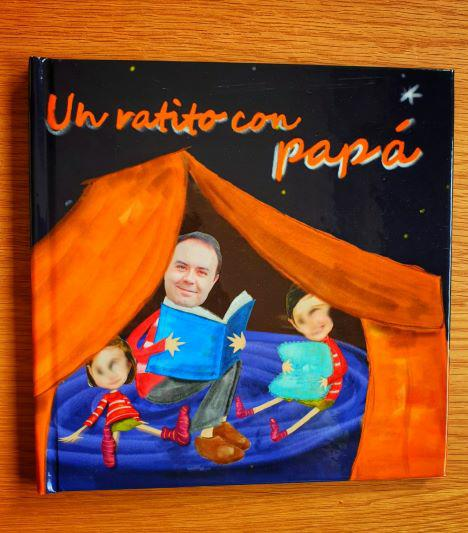
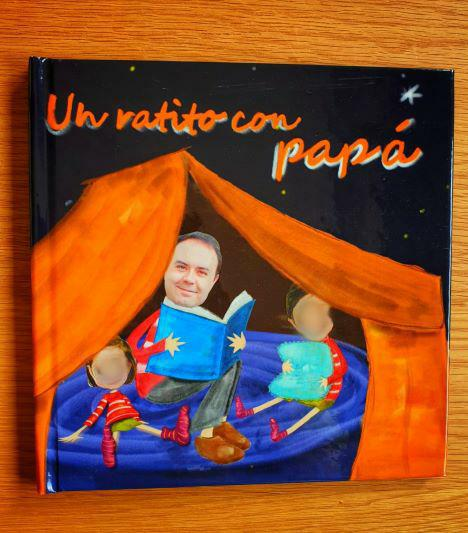
No facebook
Eliminate the facebook link
New censured photos

Changed region(s): [[0.6282, 0.5403, 0.7179, 0.6604], [0.1795, 0.6604, 0.2692, 0.7205]]

diff --git a/index.html b/index.html
@@ -8,7 +8,7 @@
   </head>
 
 <body>
-  
+
 <!-- Left Box -->
   <div class="left">
     <div class="contactlink">
@@ -124,8 +124,6 @@
      <a href="https://twitter.com/jamesclon"><img src="./img/twitter-icon.png" alt="Twitter" ></a>
 
      <a href="https://www.instagram.com/miguelvega84/"><img src="./img/insta-logo.png" alt="Instagram" ></a>
-
-     <a href="https://www.facebook.com/miguel.vega.522"><img src="./img/facebook-logo.png" alt="Facebook"></a>
 
      <a href="https://www.linkedin.com/in/miguel-vega-gonzalez-1856021b2/"><img src="./img/linkedin-logo.png" alt="Linkedin"></a>
 

diff --git a/cook.html b/cook.html
@@ -67,8 +67,6 @@
 
      <a href="https://www.instagram.com/miguelvega84/"><img src="./img/insta-logo.png" alt="Instagram" ></a>
 
-     <a href="https://www.facebook.com/miguel.vega.522"><img src="./img/facebook-logo.png" alt="Facebook"></a>
-
      <a href="https://www.linkedin.com/in/miguel-vega-gonzalez-1856021b2/"><img src="./img/linkedin-logo.png" alt="Linkedin"></a>
    </div>
  </div>

diff --git a/diy.html b/diy.html
@@ -67,8 +67,6 @@
 
      <a href="https://www.instagram.com/miguelvega84/"><img src="./img/insta-logo.png" alt="Instagram" ></a>
 
-     <a href="https://www.facebook.com/miguel.vega.522"><img src="./img/facebook-logo.png" alt="Facebook"></a>
-
      <a href="https://www.linkedin.com/in/miguel-vega-gonzalez-1856021b2/"><img src="./img/linkedin-logo.png" alt="Linkedin"></a>
    </div>
  </div>

diff --git a/job.html b/job.html
@@ -70,8 +70,6 @@
 
      <a href="https://www.instagram.com/miguelvega84/"><img src="./img/insta-logo.png" alt="Instagram" ></a>
 
-     <a href="https://www.facebook.com/miguel.vega.522"><img src="./img/facebook-logo.png" alt="Facebook"></a>
-
      <a href="https://www.linkedin.com/in/miguel-vega-gonzalez-1856021b2/"><img src="./img/linkedin-logo.png" alt="Linkedin"></a>
    </div>
  </div>

diff --git a/media.html b/media.html
@@ -67,8 +67,6 @@
 
      <a href="https://www.instagram.com/miguelvega84/"><img src="./img/insta-logo.png" alt="Instagram" ></a>
 
-     <a href="https://www.facebook.com/miguel.vega.522"><img src="./img/facebook-logo.png" alt="Facebook"></a>
-
      <a href="https://www.linkedin.com/in/miguel-vega-gonzalez-1856021b2/"><img src="./img/linkedin-logo.png" alt="Linkedin"></a>
    </div>
  </div>

diff --git a/play.html b/play.html
@@ -67,8 +67,6 @@
 
      <a href="https://www.instagram.com/miguelvega84/"><img src="./img/insta-logo.png" alt="Instagram" ></a>
 
-     <a href="https://www.facebook.com/miguel.vega.522"><img src="./img/facebook-logo.png" alt="Facebook"></a>
-
      <a href="https://www.linkedin.com/in/miguel-vega-gonzalez-1856021b2/"><img src="./img/linkedin-logo.png" alt="Linkedin"></a>
    </div>
  </div>
